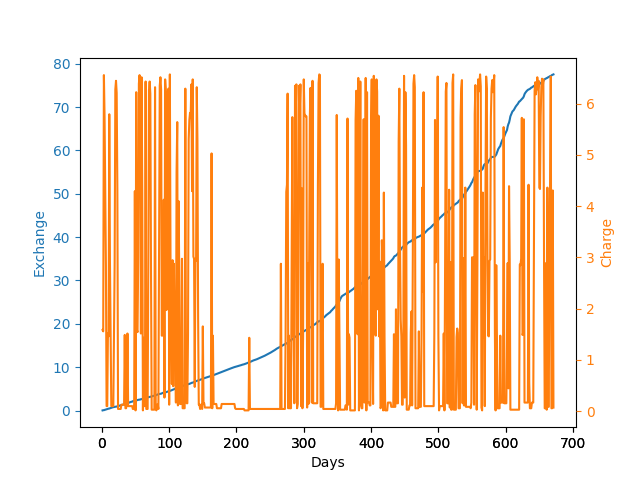
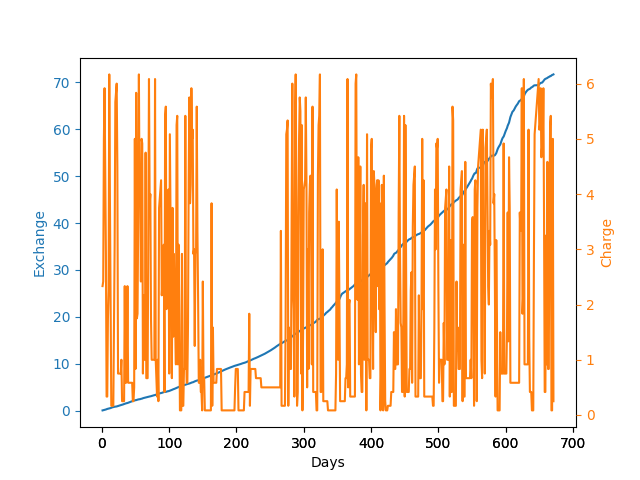
Working

diff --git a/main.py b/main.py
@@ -10,10 +10,7 @@ Home_Enviroment = homeenv.Home_Enviroment
 
 import json
 import time
-#file = open('2008till2022-10-15.json')
-file = open('2021till2022nov.json')
 
-data = json.load(file)
 
 import matplotlib.pyplot as plt
 import matplotlib.patheffects as pe
@@ -81,7 +78,7 @@ def plot_env_score(x, score, filename, should_show, lines=None):
     if(should_show == True):
         plt.show()
 
-def if_step_sell(days, step_period, show):
+def if_step_sell(days, step_period, show, data):
     #Home Enviroment
 
     env = Home_Enviroment(step_period,data)
@@ -100,7 +97,7 @@ def if_step_sell(days, step_period, show):
 
     plot_env(x,env.charge_at_time,(env.exchange),filename,should_show=show)
 
-def only_sell(days, step_period, show):
+def only_sell(days, step_period, show, data):
     env = Home_Enviroment(step_period,data)
     counts = [0,0,0]
     while env.day_index <= days:#((len(data)/24)):
@@ -112,7 +109,7 @@ def only_sell(days, step_period, show):
 
     plot_env(x,env.charge_at_time,(env.exchange),filename,should_show=show)
 
-def only_buy(days, step_period, show):
+def only_buy(days, step_period, show, data):
     env = Home_Enviroment(step_period,data)
     counts = [0,0,0]
     days = days
@@ -124,7 +121,7 @@ def only_buy(days, step_period, show):
     filename = 'onlystepbuy.png'
     plot_env(x,env.charge_at_time,(env.exchange),filename,should_show=show)
 
-def test_rewards(days, step_period, show):
+def test_rewards(days, step_period, show, data):
     env = Home_Enviroment(step_period,data)
     counts = [0,0,0]
     days = days
@@ -144,8 +141,6 @@ def test_rewards(days, step_period, show):
     plot_env(x,env.charge_at_time,(env.exchange),filename,should_show=show)
 
     
-
-
 class DeepQNetwork(nn.Module):
     def __init__(self, lr, input_dims, fc1_dims, fc2_dims, fc3_dims, n_actions):
         super(DeepQNetwork, self).__init__()
@@ -176,8 +171,8 @@ class DeepQNetwork(nn.Module):
 
 class Agent():
     def __init__(self, gamma, epsilon, lr, input_dims, 
-                batch_size, n_actions, eps_end, eps_dec, 
-                max_mem_size=200000):#Large memory size since 5000+ days is 120000+ hours and we want to have some memory
+                batch_size, n_actions, eps_end, eps_dec,
+                load, load_path, max_mem_size=200000):#Large memory size since 5000+ days is 120000+ hours and we want to have some memory
                 #Even though we cant remember all minutes or seconds
         self.gamma = gamma #discounts reward
         self.epsilon = epsilon #increased learning rate early on
@@ -192,8 +187,9 @@ class Agent():
         self.Q_eval = DeepQNetwork(self.lr, n_actions=n_actions, input_dims=input_dims, fc1_dims=64, fc2_dims=64, fc3_dims=32)
 
         #Loading model
-        device = torch.device("cuda:0" if torch.cuda.is_available() else "cpu")
-        self.Q_eval.load_state_dict(torch.load("Q_Eval_Days4k_Info3h_Step10min.pth.pth",device))
+        if load:
+            device = torch.device("cuda:0" if torch.cuda.is_available() else "cpu")
+            self.Q_eval.load_state_dict(torch.load(load_path,device))
 
         self.state_memory = np.zeros((self.mem_size, *input_dims), dtype=np.float32)
         self.new_state_memory = np.zeros((self.mem_size, *input_dims), dtype=np.float32)
@@ -253,10 +249,11 @@ class Agent():
         self.epsilon = self.epsilon - self.eps_dec if self.epsilon > self.eps_min \
                                                     else self.eps_min                                
 
-def deep_q_agent(days, step_period, show):
+def deep_q_agent(days, step_period, show, data, save, save_path, load, load_path):
     env = Home_Enviroment(step_period,data)
     agent = Agent(gamma=0.99, epsilon=0.01, batch_size=32, n_actions=2, 
-                eps_end=0.001, eps_dec=5e-6, input_dims=[4], lr=0.001)
+                eps_end=0.001, eps_dec=5e-6, input_dims=[4], lr=0.001,
+                load_path=load_path, load=load)
     scores, eps_history = [],[]
     action_count = [0,0,0]
 
@@ -298,23 +295,35 @@ def deep_q_agent(days, step_period, show):
 
     print(action_count)
     
-    #torch.save(agent.Q_eval.state_dict(), "Q_Eval_Days4k_Info3h_Step10min.pth.pth")
+    if save:
+        torch.save(agent.Q_eval.state_dict(), save_path)
 
 #All functions use (Days, Step_Period(60 = 1 min), Show graph)
 if __name__ == "__main__":
     start_time = time.time()
+
+    #file = open('2008till2022-10-15.json')
+    file = open('2021till2022nov.json')
+
+    data = json.load(file)
+    
+    save = False
+    load = True
+    save_path = "Q_Eval_Days4k_Info3h_Step10min2.pth"
+    load_path = "Q_Eval_Days4k_Info3h_Step10min2.pth"
+
     days = 670
-    step = 60*10
+    step = 60*60
     print("\n-----------------------------------------------------------------------------------------------\n")
-    if_step_sell(days, step, False)
+    if_step_sell(days, step, False, data)
     print("\n-----------------------------------------------------------------------------------------------\n")
-    only_sell(days, step, False)
+    only_sell(days, step, False, data)
     print("\n-----------------------------------------------------------------------------------------------\n")
-    only_buy(days, step, False)
+    only_buy(days, step, False, data)
     print("\n-----------------------------------------------------------------------------------------------\n")
-    test_rewards(days, step, False)
+    test_rewards(days, step, False, data)
     print("\n-----------------------------------------------------------------------------------------------\n")
-    deep_q_agent(days, step, False)
+    deep_q_agent(days, step, False, data, save=save, save_path=save_path, load=load, load_path=load_path)
     print("\n-----------------------------------------------------------------------------------------------\n")
     print("Finished after: " + (str(np.round((time.time() - start_time),3))) + " seconds")
     

diff --git a/homeenv.py b/homeenv.py
@@ -216,9 +216,9 @@ class Home_Enviroment():
         else: #If Bought
             #reward = ((self.avg_price_day/self.bought_at_price)-1) #Ignored price comparde to average price
             reward = (-day_arr[0] + day_arr[1])*2 + (-day_arr[1] + day_arr[2])*1
-        reward = reward*-1
-        reward -= (self.sold_in_day - self.bought_in_day)*0.4
-        reward = reward*-1
+        reward = reward*(self.step_period/3600)
+        reward += (self.sold_in_day - self.bought_in_day)*0.4*(self.step_period/3600)*15
+        
         
 
         #reward = self.total_sold_price - self.total_bought_price
